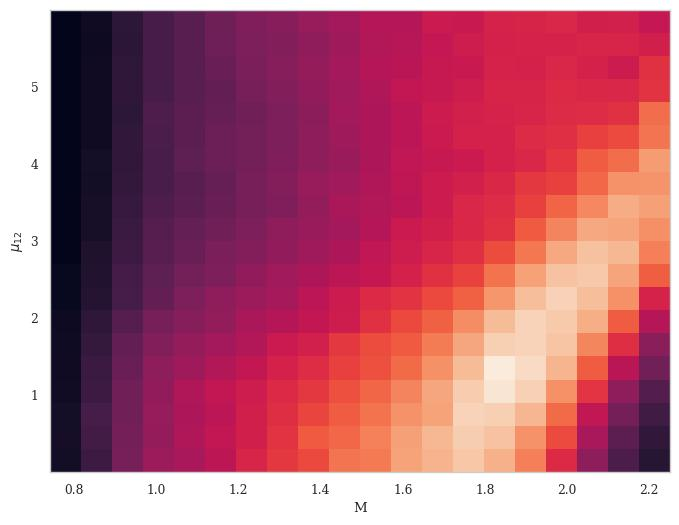
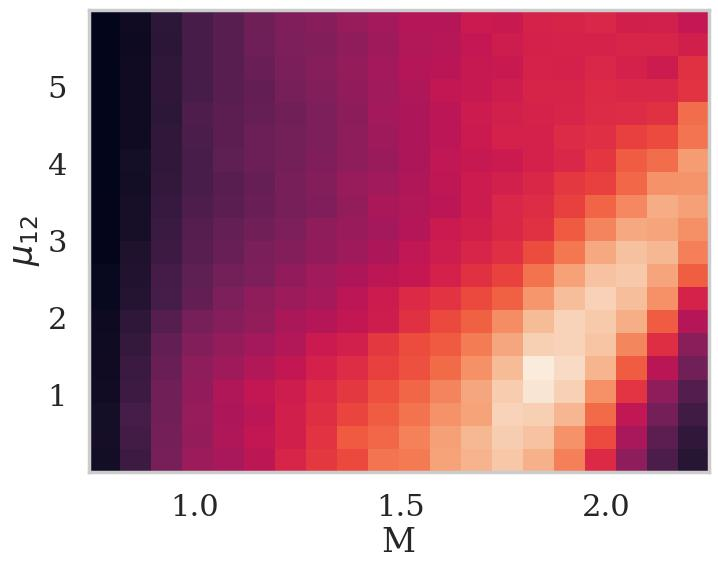
make poster images

diff --git a/mcmc/analyzeMCMC.py b/mcmc/analyzeMCMC.py
@@ -10,7 +10,7 @@ import matplotlib.pyplot as plt
 import seaborn as sb
 import corner
 
-sb.set(context='paper', style='whitegrid', palette='Set1')
+sb.set(context='poster', style='whitegrid', palette='Set1')
 plt.rcParams["font.family"] = "serif"
 
 def plotCorner(chain, log):
